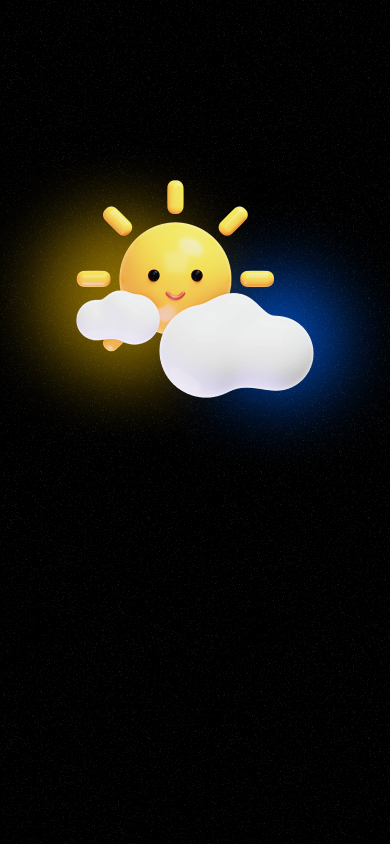
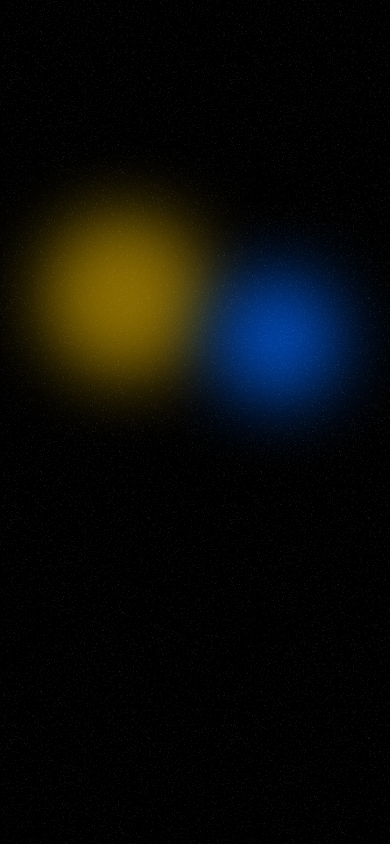
Add Images and Static Files

Changed region(s): [[0.1846, 0.2156, 0.8308, 0.4929]]

diff --git a/flutter_application_weatherapp/lib/main.dart b/flutter_application_weatherapp/lib/main.dart
@@ -1,7 +1,10 @@
 import 'package:flutter/material.dart';
 
 void main() {
-  runApp(const MyApp());
+  runApp(MaterialApp(
+    debugShowCheckedModeBanner: false,
+    home: MyApp(),
+  ));
 }
 
 class MyApp extends StatefulWidget {
@@ -14,13 +17,97 @@ class MyApp extends StatefulWidget {
 class _MyAppState extends State<MyApp> {
   @override
   Widget build(BuildContext context) {
-    return Stack(
-      children: <Widget>[
-        Image.asset('assets/images/bg.png'),
-        Scaffold(
-          backgroundColor: Colors.black,
-        )
-      ],
+    return Scaffold(
+      appBar: AppBar(
+        backgroundColor: Colors.black,
+      ),
+      body: Container(
+        width: double.infinity,
+        decoration: BoxDecoration(
+          image: DecorationImage(
+            image: AssetImage('assets/images/bg.png'),
+            fit: BoxFit.cover,
+          ),
+        ),
+        child: Column(
+          mainAxisAlignment: MainAxisAlignment.start,
+          children: [
+            Center(
+              child: Container(
+                decoration: BoxDecoration(
+                  border: Border.all(
+                      width: 1, style: BorderStyle.solid, color: Colors.white),
+                  borderRadius: BorderRadius.circular(13),
+                ),
+                child: Padding(
+                  padding: const EdgeInsets.fromLTRB(8, 4, 8, 4),
+                  child: Text(
+                    "Babol",
+                    style: TextStyle(
+                      color: Colors.white,
+                      fontSize: 16,
+                      fontWeight: FontWeight.normal,
+                    ),
+                  ),
+                ),
+              ),
+            ),
+            Padding(
+              padding: const EdgeInsets.fromLTRB(30, 40, 0, 18),
+              child: Row(
+                mainAxisAlignment: MainAxisAlignment.start,
+                children: [
+                  Text(
+                    "Today's Report",
+                    style: TextStyle(
+                      color: Colors.white,
+                      fontSize: 20,
+                      fontWeight: FontWeight.w500,
+                    ),
+                  ),
+                ],
+              ),
+            ),
+            Center(
+              child: Image(
+                image: AssetImage('assets/images/cloudy-icon.png'),
+              ),
+            ),
+            SizedBox(height: 12,),
+            Center(
+              child: Text(
+                "Cloudy Sky!",
+                style: TextStyle(
+                  color: Colors.white,
+                  fontSize: 20,
+                  fontWeight: FontWeight.w500,
+                ),
+              ),
+            ),
+            Row(
+              mainAxisAlignment: MainAxisAlignment.center,
+              children: [
+                Text(
+                    "8",
+                    style: TextStyle(
+                      color: Colors.white,
+                      fontSize: 84,
+                      fontWeight: FontWeight.w500,
+                    ),
+                  ),
+                                  Text(
+                    "°",
+                    style: TextStyle(
+                      color: Colors.blue,
+                      fontSize: 84,
+                      fontWeight: FontWeight.w500,
+                    ),
+                  ),
+              ],
+            ),
+          ],
+        ),
+      ),
     );
   }
 }
